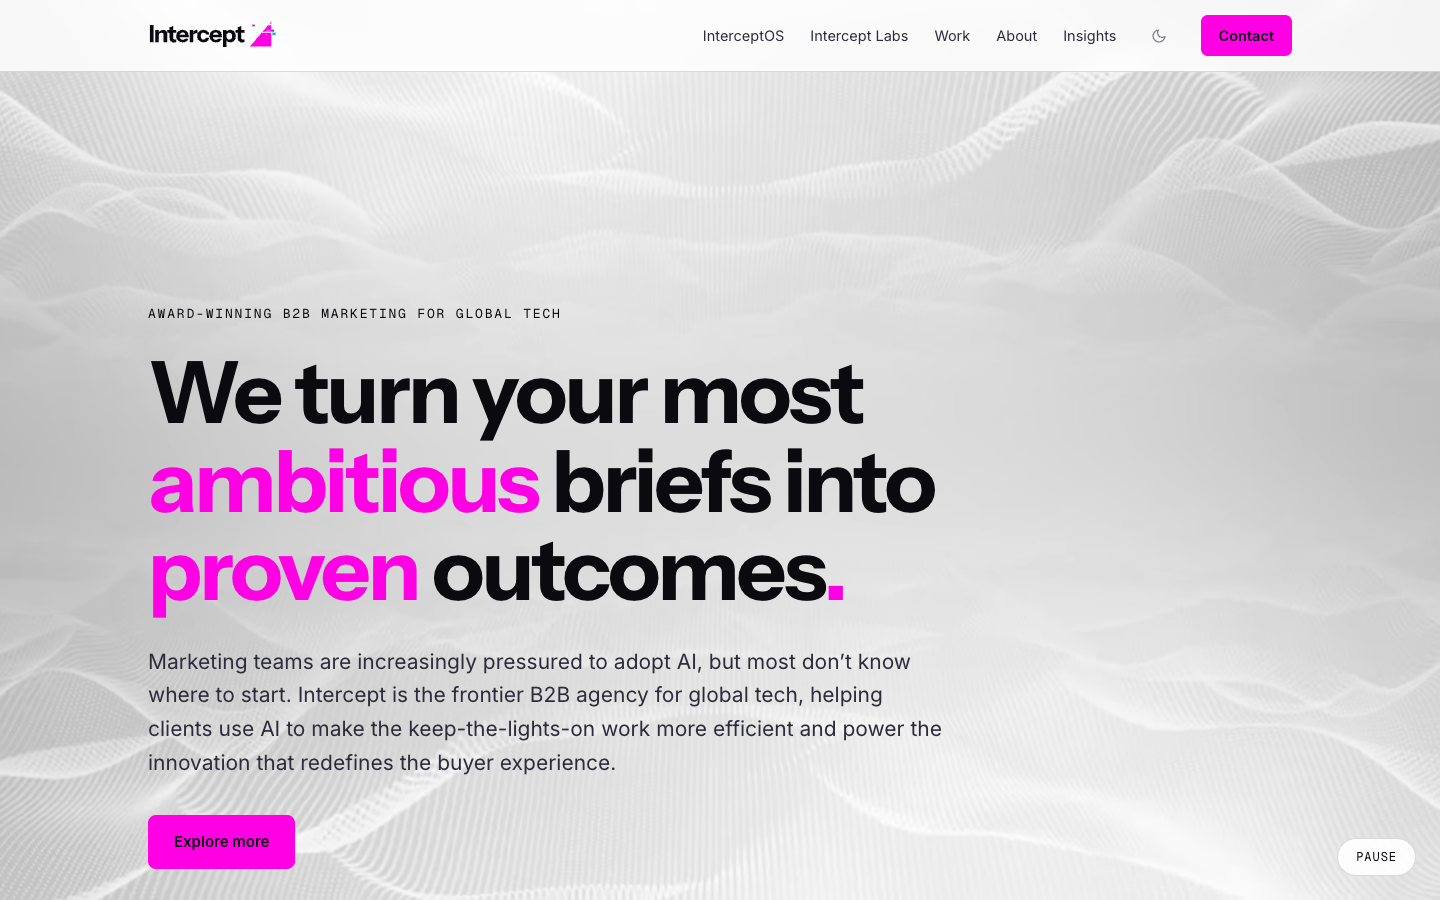
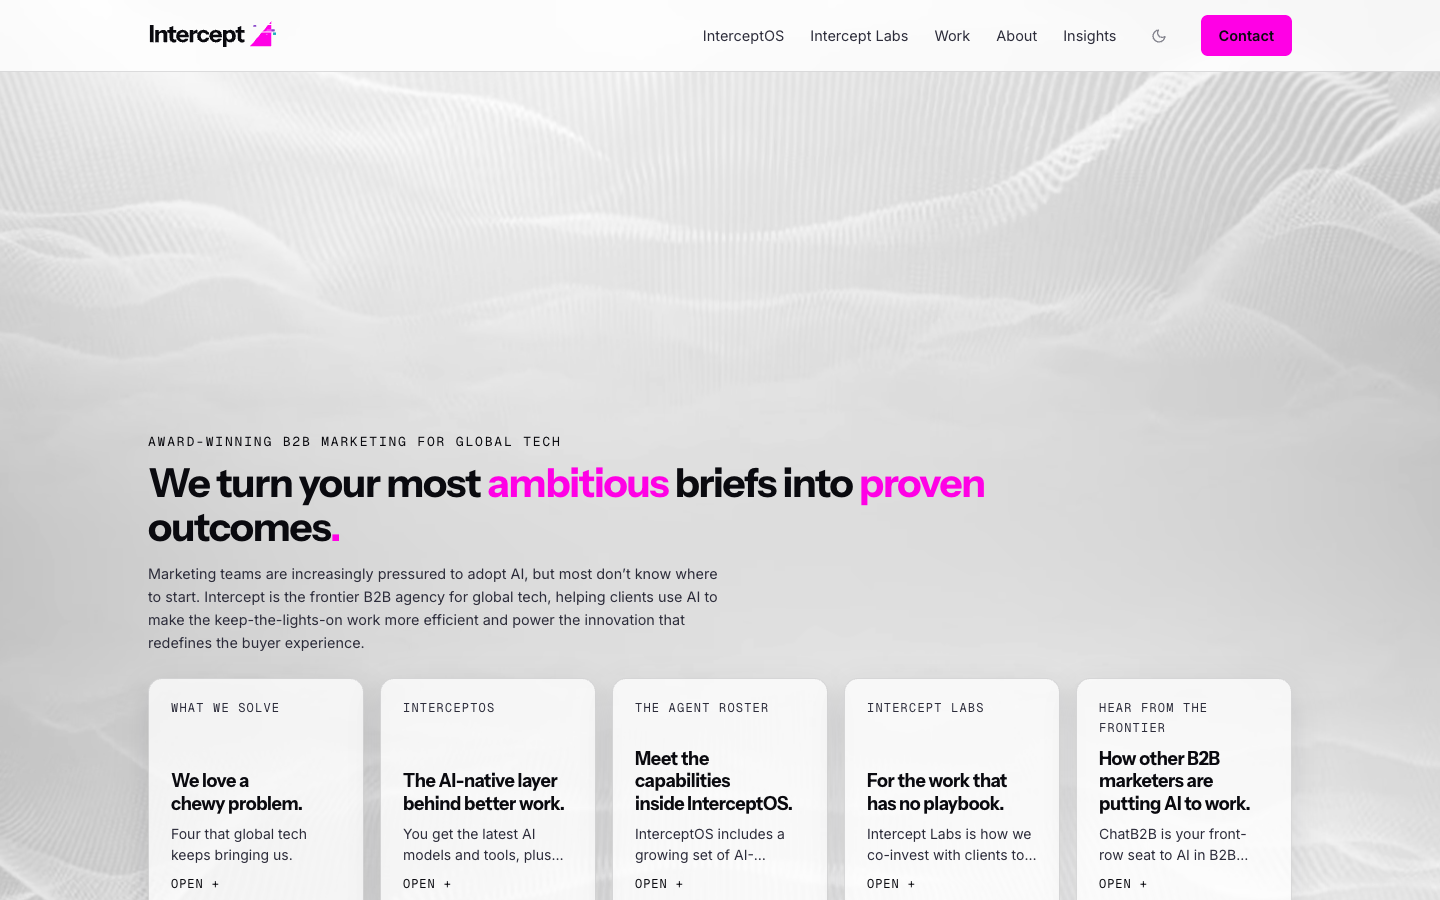
feat(07-03): refresh gallery thumbnail + REVIEW.md Concept D walkthrough
- assets/gallery/concept-d.png recaptured at 1440x900 (exact 16:10, 06-01
  recipe) -- now shows the iteration-2 compact hero + 5-card grid instead
  of the stale Phase-5 layout
- REVIEW.md's Concept D paragraph, what-to-try hints, and evidence line
  rewritten to describe the above-the-fold card grid, the work-reel
  section, and the quiet progressive-disclosure module windows; evidence
  line now points at .planning/phases/07-concept-d-iteration-2/captures/
- Nothing else in REVIEW.md touched

diff --git a/REVIEW.md b/REVIEW.md
@@ -14,7 +14,7 @@ From the repo root: `./serve.sh`, then open `http://localhost:4340/`. That start
 
 **Concept C — Experimental WebGL/3D** uses a three.js scene as the navigation metaphor: scrolling drives the camera through six topic objects in a spatial field, each with a clickable, keyboard-focusable label. Below the fold it's standard DOM. A semantic DOM mirror of the same navigation exists alongside the 3D layer and is shown outright when WebGL is unavailable, and rendering is device-tiered so it degrades gracefully on weaker GPUs rather than stalling or going blank.
 
-**Concept D — Home Variant** is the odd one out on purpose: it's a speculative variant of the currently deployed homepage rather than a new structural idea. It keeps the deployed site's sticky nav and logo treatment, swaps in a full-screen light-mode motion-graphics video, and turns each existing homepage section into a small card that expands into a modal holding that section's complete, unmodified module. Nav items route to standalone pages built from the same modules, and About/Insights/ChatB2B are mirrored straight from the deployed bundle.
+**Concept D — Home Variant** is the odd one out on purpose: it's a speculative variant of the currently deployed homepage rather than a new structural idea, now in its second iteration. It keeps the deployed site's sticky nav and logo treatment and its full-screen light-mode motion-graphics video, but the homepage itself is restructured: a compact hero shares the first viewport with a full 5-card grid, a full-screen work reel follows with its own ambient video and three case cards, and every card scales into a quiet, full-viewport module window with progressive disclosure — one problem, one workflow stage, one Challenge/Approach/Results section at a time — instead of dumping the whole module at once. FAQs, the conversation starter, and the footer stay as plain below-fold sections. Nav items route to standalone pages built from the same modules, and About/Insights/ChatB2B are mirrored straight from the deployed bundle.
 
 Look at Concept D first — it's the one Jon asked to be built and is the closest read on "does this direction work," with the other three as structural alternatives to weigh against it.
 
@@ -36,9 +36,12 @@ Look at Concept D first — it's the one Jon asked to be built and is the closes
 - The topic index works without WebGL
 
 **Concept D**
-- Click a card to expand its full module
-- Esc closes a modal
-- The nav routes to full section pages
+- Hover a card and watch the fill thin
+- Click a card and watch it grow into a full-viewport window
+- Esc returns you to the card you opened
+- Scroll to the work reel
+- Open a case card for its Challenge/Approach/Results
+- Try reduced-motion or no-JS — both have working fallbacks
 
 States worth checking on any of them: reduced-motion (B falls back to its poster frame, C freezes to a static scene, D's video pauses on its poster), no-JS (A, C, and D all have working fallbacks without any script running), and keyboard-only paths (B's hotspots, C's topic labels, D's modals — Tab in, Esc out, focus returns to the card that opened it).
 
@@ -48,7 +51,7 @@ Each concept has its own capture set and QA record:
 - Concept A: `.planning/phases/02-concept-a-editorial-accenture-but-better/captures/` (9 captures) and the QA table in `02-03-SUMMARY.md`
 - Concept B: `.planning/phases/03-concept-b-full-screen-video/captures/` (11 captures) and the QA table in `03-03-SUMMARY.md`
 - Concept C: `.planning/phases/04-concept-c-experimental-webgl-3d/captures/` (33 captures), `04-VERIFICATION.md`, and the `04-03`/`04-04` summaries
-- Concept D: `.planning/phases/05-concept-d-home-variant/captures/` (10 captures), `05-VERIFICATION.md`, and the QA table in `05-03-SUMMARY.md`
+- Concept D: `.planning/phases/07-concept-d-iteration-2/captures/` (23 captures covering the compact hero/card grid, work reel, card-to-window morph, all 8 quiet module windows, reduced-motion, and no-JS), with the QA tables in `07-01-SUMMARY.md`, `07-02-SUMMARY.md`, and `07-03-SUMMARY.md`. The original build's evidence — `.planning/phases/05-concept-d-home-variant/captures/` (10 captures) and `05-VERIFICATION.md` — still documents the deployed-bundle port this iteration builds on.
 
 Cross-concept evidence lives in `.planning/phases/06-cross-concept-qa-review-packaging/`: `06-01-SUMMARY.md` has the consolidated mechanical QA table (copy-diff, script-diff, link integrity, brand greps, video budgets, all four concepts in one pass), `captures/gallery-390.png` and `captures/gallery-1440.png` are the reviewed gallery captures, and `06-FRITZ-QA.md` is the Fritz brand agent's sign-off — the judgment layer on top of the mechanical checks, covering logo geometry, color-role discipline, and mark-placement rules across all five surfaces (the four concepts plus this gallery).
 
